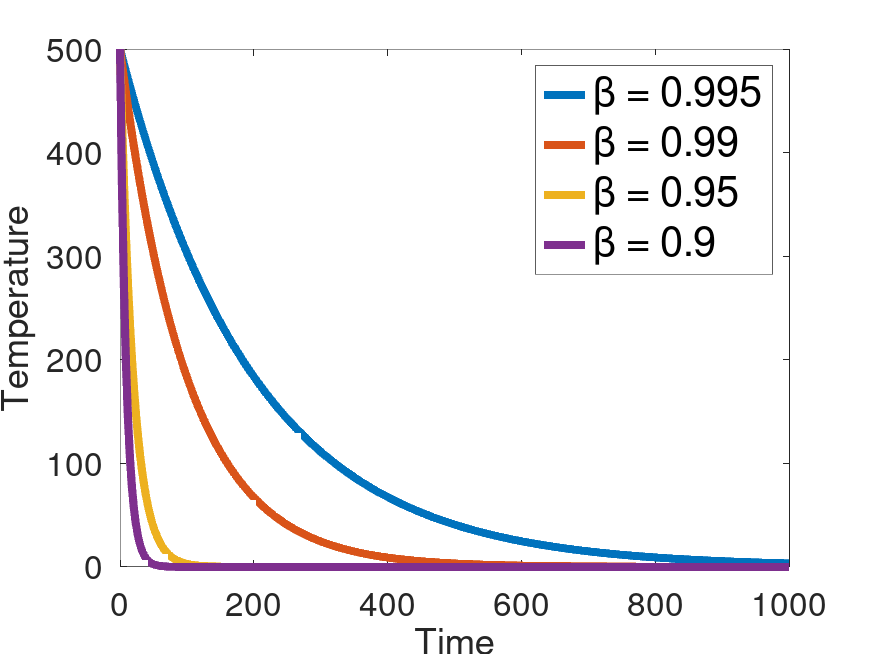
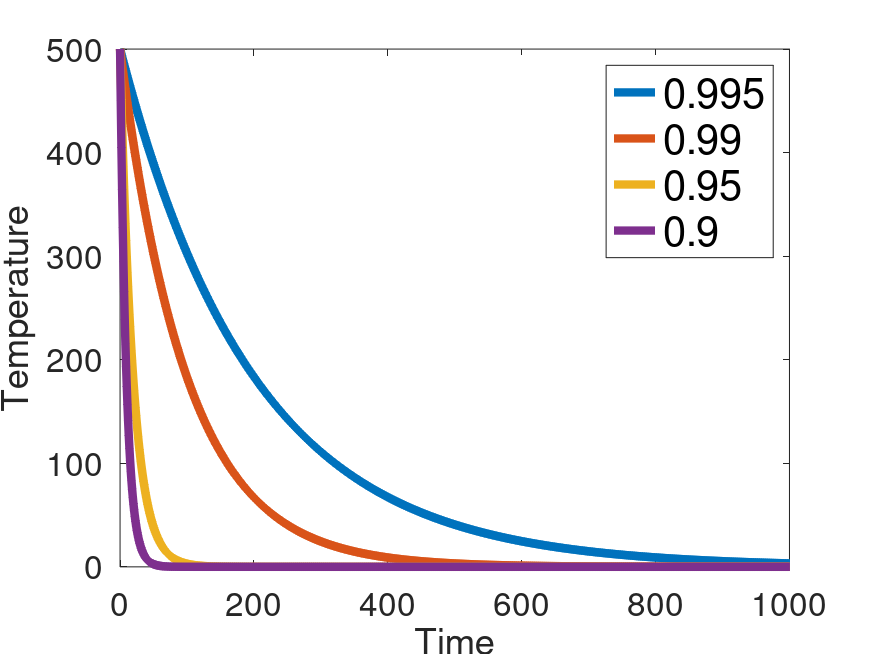
Update geometric figure

diff --git a/main.tex b/main.tex
@@ -1,4 +1,4 @@
-% Created 2024-04-04 Thu 11:41
+% Created 2024-04-04 Thu 11:54
 % Intended LaTeX compiler: pdflatex
 \documentclass[energies,article,submit,moreauthors]{Definitions/mdpi}
 
@@ -744,12 +744,12 @@ current state of visits, \(\I\), and the current state of the charger availabili
 affects a subset of \(\I\) and the updated charger availability \(\C\).
 
 \paragraph{Generator Input}
-\label{sec:org7714d5a}
+\label{sec:orgd6af7cb}
 Each generator accepts a tuple \(\Sol \equiv (i, \I, \C)\) where \(i\) is the visit index being manipulated, \(\I\) is the set of
 visits, and \(\C\) is the set that describes the availability for all chargers \(q \in \Qset\).
 
 \paragraph{Generator Output}
-\label{sec:org88ac2e5}
+\label{sec:orgd9243e2}
 The output of the generating functions is the same as the input, but with changes applied to it by a generator. Let a
 modified variable be denoted with a bar, \(\bar{\cdot}\). Thus, the modified input tuple is written as \(\bar{\Sol}\). Although
 not all the variables in \(\Sol\) are modified, it is written in this manner for the sake of consistency and simplicity in

diff --git a/img/geometric.m b/img/geometric.m
@@ -40,7 +40,7 @@
   hold off;
 
   ## Legend
-  l = legend({'\beta = 0.995', '\beta = 0.99', '\beta = 0.95', '\beta = 0.9'});
+  l = legend({'0.995', '0.99', '0.95', '0.9'});
   set(l, "fontsize", 20);
 
   ## Configure Plot
